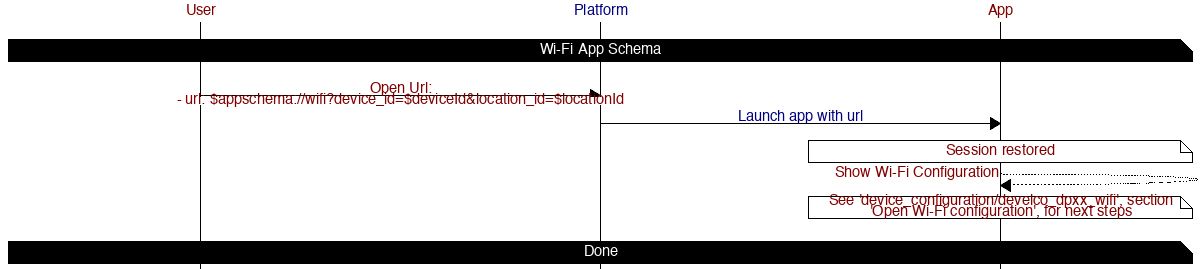
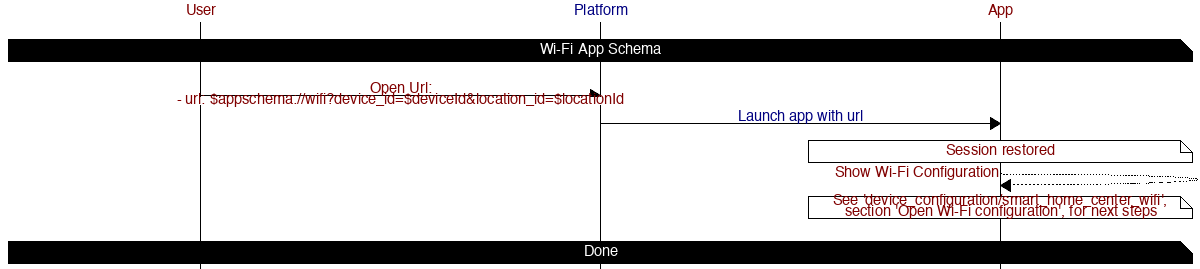
Changed: MSC Disambiguate charts

Changed region(s): [[0.6783, 0.7138, 0.9867, 0.803]]

diff --git a/message_sequence_charts/diagrams/apps/device_onboarding/README.md b/message_sequence_charts/diagrams/apps/device_onboarding/README.md
@@ -19,8 +19,8 @@
     * [Connect](#page-style-connect)
     * [Picture](#page-style-picture)
 * [Diagrams](#diagrams)
-    * [Develco DPXX](#develco-dpxx)
-    * [Develco Entry Sensor](#develco-entry-sensor)
+    * [Smart Home Center](#smart-home-center)
+    * [Entry Sensor](#entry-sensor)
 
 ## General Flow
 
@@ -83,7 +83,7 @@ Device Models may require 1 or more pairing type.
 
 For example
 
-* 1 - QR Scan - Uses a device camera, or show if device can't use camera show UI with input to type device ID manually (see [Develco DPXX](#develco-dpxx)).
+* 1 - QR Scan - Uses a device camera, or show if device can't use camera show UI with input to type device ID manually (see [Smart Home Center](#smart-home-center)).
 * 2 - Native - Uses native implementation.  It is the Apps responsibility to include association with specific model IDs.
 * 4 - OAuth 2.0 - Used together with model.oauthAppId to open specific URL for every appId and authorize there, then use Server-side callback to show Web-view to confirm OAuth connection with third-party application.
 * 8 - Zigbee - Used together with dependencyDevicetypes to support proxy/slave device onboarding
@@ -156,7 +156,7 @@ Standard page style with media, subtitle, content, and actions.
 <a id="page-style-picture"></a>
 ### Picture
 
-"Take a Picture" page style with camera capabilities, subtitle, content, and actions. Used to capture and list images during device onboarding (e.g. installation images). See [Develco Entry Sensor](#device-entry-sensor) for more information.
+"Take a Picture" page style with camera capabilities, subtitle, content, and actions. Used to capture and list images during device onboarding (e.g. installation images). See [Entry Sensor](#device-entry-sensor) for more information.
 
 *Identifier*
 
@@ -164,9 +164,9 @@ Standard page style with media, subtitle, content, and actions.
 
 ## Diagrams
 
-### Develco DPXX
+### Smart Home Center
 
-![png](./develco_dpxx.png)
+![png](./smart_home_center.png)
 
 #### APIs
 
@@ -212,9 +212,9 @@ Params:
 Params:
 - locationId: $locationId
 
-### Develco Entry Sensor
+### Entry Sensor
 
-![png](./develco_entry.png)
+![png](./entry_sensor.png)
 
 #### APIs
 

diff --git a/message_sequence_charts/diagrams/apps/device_configuration/README.md b/message_sequence_charts/diagrams/apps/device_configuration/README.md
@@ -2,15 +2,15 @@
 
 ## Table of contents
 
-* [Develco DPXX Wi-Fi](#develco-dpxx-wifi)
+* [Smart Home Center Wi-Fi](#smart-home-center-wifi)
 
 ## Diagrams
 
-### Develco DPXX Wi-Fi
+### Smart Home Center Wi-Fi
 
-Configuring Wi-Fi for the Develco DPXX device types is done by using device commands to interact with the device.  This requires the device to be connected to the Cloud.
+Configuring Wi-Fi for the Smart Home Center device types is done by using device commands to interact with the device.  This requires the device to be connected to the Cloud.
 
-![png](./develco_dpxx_wifi.png)
+![png](./smart_home_center_wifi.png)
 
 #### APIs
 
@@ -28,7 +28,7 @@ Params:
 
 Params:
 - locationId: $locationId _Current Location ID_
-- deviceId: $deviceId _DPXX Device ID_
+- deviceId: $deviceId _Smart Home Center Device ID_
 - data: `{'commandType': 4, 'commandTimeout': 60, 'params': [{'name': 'wifiSsidValues', 'value': '1'}]}`
 
 *Notify device to connect to Wi-Fi*

diff --git a/message_sequence_charts/diagrams/apps/device_ui/README.md b/message_sequence_charts/diagrams/apps/device_ui/README.md
@@ -2,13 +2,13 @@
 
 ## Table of contents
 
-* [Develco DPXX](#develco-dpxx)
+* [Smart Home Center](#smart-home-center)
 
 ## Diagrams
 
-### Develco DPXX
+### Smart Home Center
 
-![png](./develco_dpxx.png)
+![png](./smart_home_center.png)
 
 #### APIs
 
